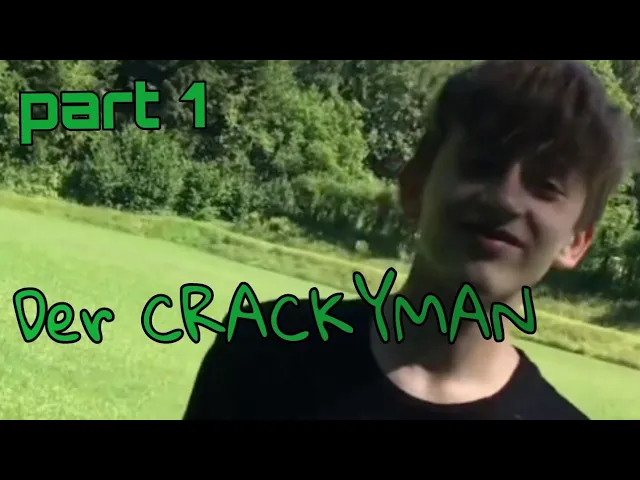
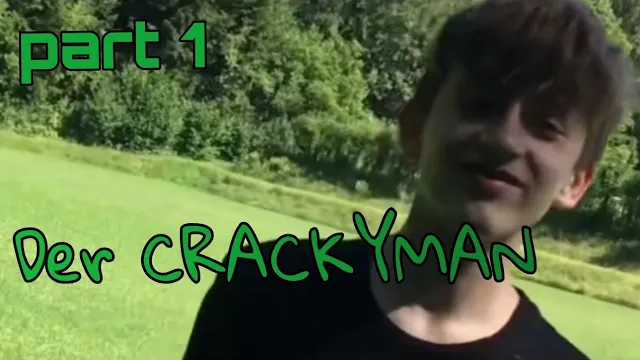
fixed sidebar from chronological-order-page :)

diff --git a/src/app/data/episodes.ts b/src/app/data/episodes.ts
@@ -1,8 +1,7 @@
 export type EpisodeKind =
   | 'episode'
   | 'musicvideo'
-  | 'trailer'
-  | 'special';
+  | 'trailer';
 
 export interface StoryEpisode {
   id: string;
@@ -33,6 +32,8 @@ export interface StoryEpisode {
 
   // Hier dürfen Charakter- UND Artefakt-IDs rein.
   entryIds: string[];
+
+  storyPlacement?: string;
 }
 
 export const STORY_EPISODES: StoryEpisode[] = [
@@ -107,7 +108,7 @@ export const STORY_EPISODES: StoryEpisode[] = [
     thumbnail: '/episodes/x-eyes-ft-philip.png',
     chronology: 5,
     storyDate: '2021-10-31',
-    kinds: ['musicvideo'],
+    kinds: ['episode','musicvideo'],
     storyRelevant: true,
     youtubeEnabled: true,
     youtubeUrl: 'https://youtu.be/OBtNmeT1hSw?si=O0sEun11UmLy1xAn',
@@ -184,11 +185,11 @@ export const STORY_EPISODES: StoryEpisode[] = [
   },
   {
     id: 'x-king-ft-crackyman',
-    title: 'The X-King ft. Crackyman (Offizielles Musikvideo) - Halloween Special',
+    title: 'The X-King ft. Crackyman (Offizielles Musikvideo)',
     thumbnail: '/episodes/x-king-ft-crackyman.png',
     chronology: 10,
     storyDate: '2022-10-31',
-    kinds: ['musicvideo', 'special'],
+    kinds: ['episode','musicvideo'],
     storyRelevant: true,
     youtubeEnabled: true,
     youtubeUrl: 'https://youtu.be/Y3FILp9tKCY?si=y8azGY88gCOplAqN',
@@ -204,7 +205,7 @@ export const STORY_EPISODES: StoryEpisode[] = [
     thumbnail: '/episodes/happy-x.png',
     chronology: 11,
     storyDate: '2023-10-31',
-    kinds: ['musicvideo'],
+    kinds: ['episode','musicvideo'],
     storyRelevant: true,
     youtubeEnabled: true,
     youtubeUrl: 'https://youtu.be/Ahwr3xnd_vc?si=N1jisqDSiQwEV6Fs',
@@ -277,17 +278,21 @@ export const STORY_EPISODES: StoryEpisode[] = [
     ]
   },
   {
-    id: 'contract-killer',
-    title: 'Contract Killer',
-    thumbnail: '/episodes/contract-killer.png',
-    releaseDate: '2025-11-25',
-    kinds: ['musicvideo', 'special'],
-    storyRelevant: false,
-    youtubeEnabled: true,
-    youtubeUrl: 'https://youtu.be/3OSe5zLqIWk?si=9GLfX9X1pYGBY9B2',
-    entryIds: [
-      'niklas',
-      'dealer'
+  id: 'contract-killer',
+  title: 'Contract Killer',
+  thumbnail: '/episodes/contract-killer.png',
+  releaseDate: '2025-11-25',
+
+  storyPlacement: 'Spielt in Akt 2',
+
+  kinds: ['musicvideo'],
+  storyRelevant: false,
+  youtubeEnabled: true,
+  youtubeUrl: 'https://youtu.be/3OSe5zLqIWk?si=9GLfX9X1pYGBY9B2',
+
+  entryIds: [
+    'niklas',
+    'dealer'
     ]
   },
   {
@@ -296,7 +301,7 @@ export const STORY_EPISODES: StoryEpisode[] = [
     thumbnail: '/episodes/wolf-of-waldstreet.png',
     chronology: 14,
     storyDate: '2026-03-31',
-    kinds: ['special'],
+    kinds: ['episode'],
     storyRelevant: true,
     youtubeEnabled: true,
     youtubeUrl: 'https://youtu.be/PZdc82d5Xus?si=NxT_Y_sRDNLrR95q',

diff --git a/src/app/pages/episodes/episodes.html b/src/app/pages/episodes/episodes.html
@@ -112,15 +112,6 @@
             <span>Trailer</span>
           </label>
 
-          <label class="filter-option">
-            <input
-              type="checkbox"
-              [checked]="isKindSelected('special')"
-              (change)="toggleKind('special')"
-            >
-            <span>Specials</span>
-          </label>
-
           <div class="filter-divider"></div>
 
           <button
@@ -182,13 +173,15 @@
           </h2>
 
           <p class="episode-date">
-            @if (episode.storyDate) {
-              Spielt am:
-              {{ formatStoryDate(episode.storyDate) }}
-            } @else {
-              Außerhalb der Story-Chronologie
-            }
-          </p>
+  @if (episode.storyPlacement) {
+    {{ episode.storyPlacement }}
+  } @else if (episode.storyDate) {
+    Spielt am:
+    {{ formatStoryDate(episode.storyDate) }}
+  } @else {
+    Außerhalb der Story-Chronologie
+  }
+</p>
 
         </div>
 
@@ -254,7 +247,7 @@
     } @else {
 
       <div class="no-episodes">
-        Keine Videos in dieser Kategorie gefunden 💀
+        Keine Videos in dieser Kategorie gefundenn
       </div>
 
     }
@@ -283,15 +276,15 @@
             <div class="timeline-marker"></div>
 
             <div class="timeline-date">
-              @if (episode.storyDate) {
-                Spielt am:
-                {{ formatStoryDate(episode.storyDate) }}
-              } @else if (episode.storyRelevant) {
-                Story-Zeitpunkt noch nicht eingetragen
-              } @else {
-                Außerhalb der Story-Chronologie
-              }
-            </div>
+  @if (episode.storyPlacement) {
+    {{ episode.storyPlacement }}
+  } @else if (episode.storyDate) {
+    Spielt am:
+    {{ formatStoryDate(episode.storyDate) }}
+  } @else {
+    Außerhalb der Story-Chronologie
+  }
+</div>
 
             <button
               class="timeline-card"

diff --git a/src/app/pages/episodes/episodes.css b/src/app/pages/episodes/episodes.css
@@ -1170,3 +1170,83 @@
     font-size: 1.1rem;
   }
 }
+
+
+/* =========================
+   FIXED TIMELINE CONNECTOR
+
+   Die blaue Verbindungslinie hängt nicht mehr an der scrollenden
+   .timeline, sondern am sichtbaren Viewport unter dem Sticky-Header.
+   Dadurch reicht sie unabhängig von Browser-Zoom und Scrollposition
+   immer bis zum unteren Rand des sichtbaren Chronologie-Bereichs.
+========================= */
+
+.episodes-view-shell.is-timeline {
+  position: relative;
+}
+
+/* Alte, mitscrollende Linie deaktivieren. */
+.episodes-view-shell.is-timeline
+.timeline::before {
+  display: none;
+}
+
+/* Neue Linie sitzt direkt im sichtbaren Chronologie-Viewport. */
+.episodes-view-shell.is-timeline::before {
+  content: '';
+
+  position: absolute;
+
+  top: 0;
+  bottom: 0;
+
+  /*
+   * Desktop-Chronologie wird intern mit 1.9 skaliert:
+   * 18px Markerposition × 1.9 ≈ 34px.
+   */
+  left: 34px;
+
+  width: 2px;
+
+  z-index: 0;
+
+  pointer-events: none;
+
+  background:
+    linear-gradient(
+      to bottom,
+      transparent,
+      rgba(120, 165, 255, 0.75) 4%,
+      rgba(120, 165, 255, 0.32) 96%,
+      transparent
+    );
+
+  box-shadow:
+    0 0 12px
+    rgba(
+      90,
+      135,
+      255,
+      0.30
+    );
+}
+
+/* Karten und Marker bleiben über der Linie. */
+.episodes-view-shell.is-timeline
+.episodes-view-scale {
+  position: relative;
+
+  z-index: 1;
+}
+
+
+/* Unter 901px greift kein künstlicher 1.9-Zoom mehr.
+   Dort liegt der Marker wieder bei ungefähr 18px. */
+@media (max-width: 900px) {
+
+  .episodes-view-shell.is-timeline::before {
+    left: 18px;
+  }
+
+}
+

diff --git a/src/app/pages/episodes/episodes.ts b/src/app/pages/episodes/episodes.ts
@@ -246,9 +246,6 @@ export class Episodes implements OnInit {
           case 'trailer':
             return 'Trailer';
 
-          case 'special':
-            return 'Special';
-
           default:
             return 'Folge';
         }
